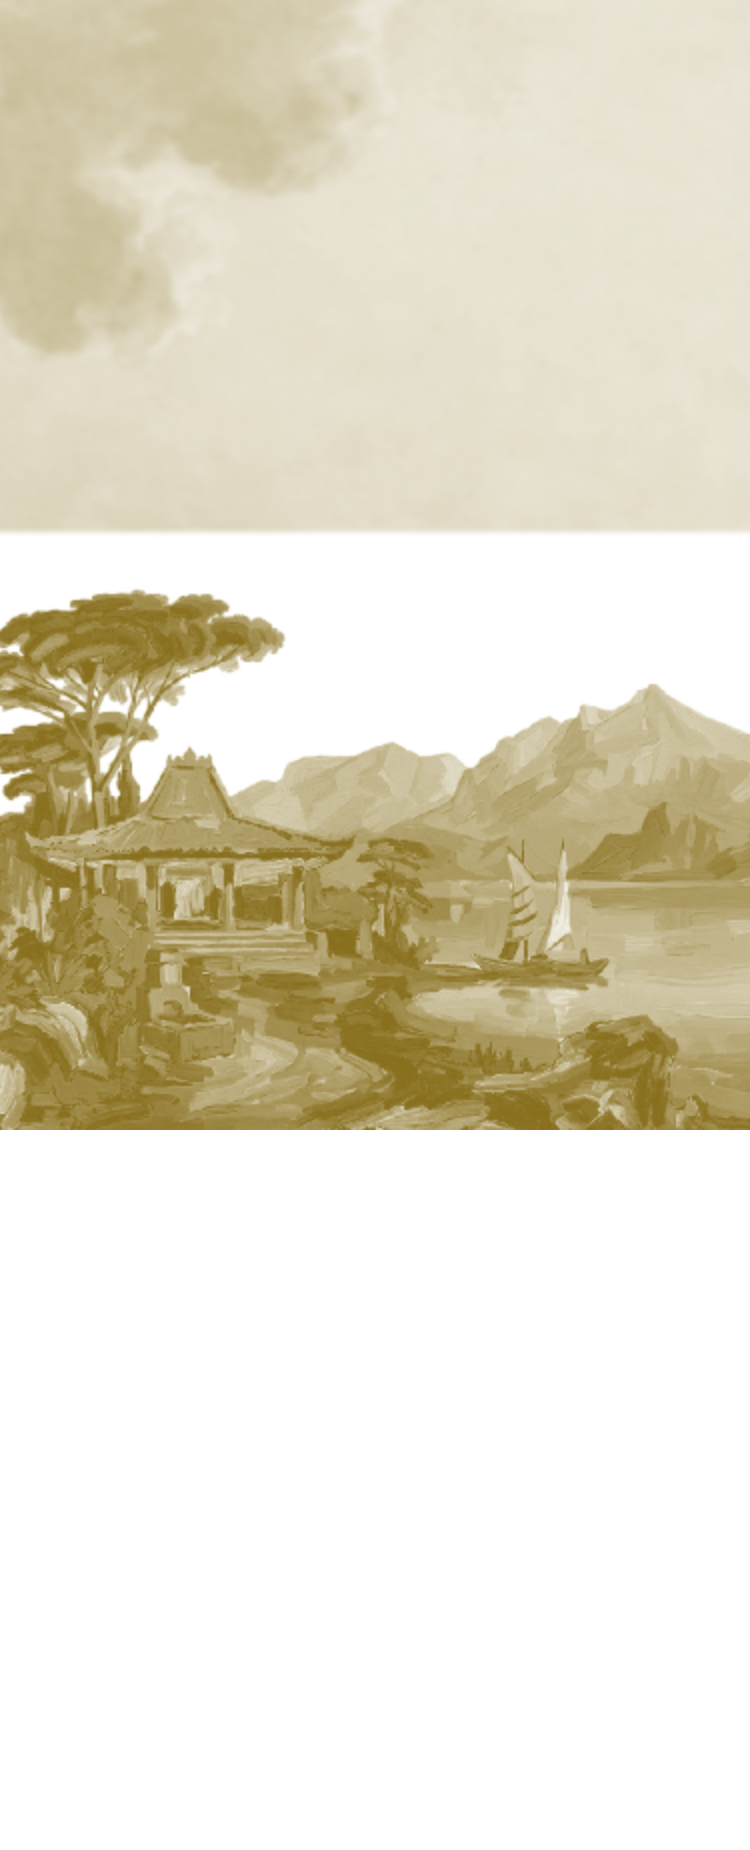
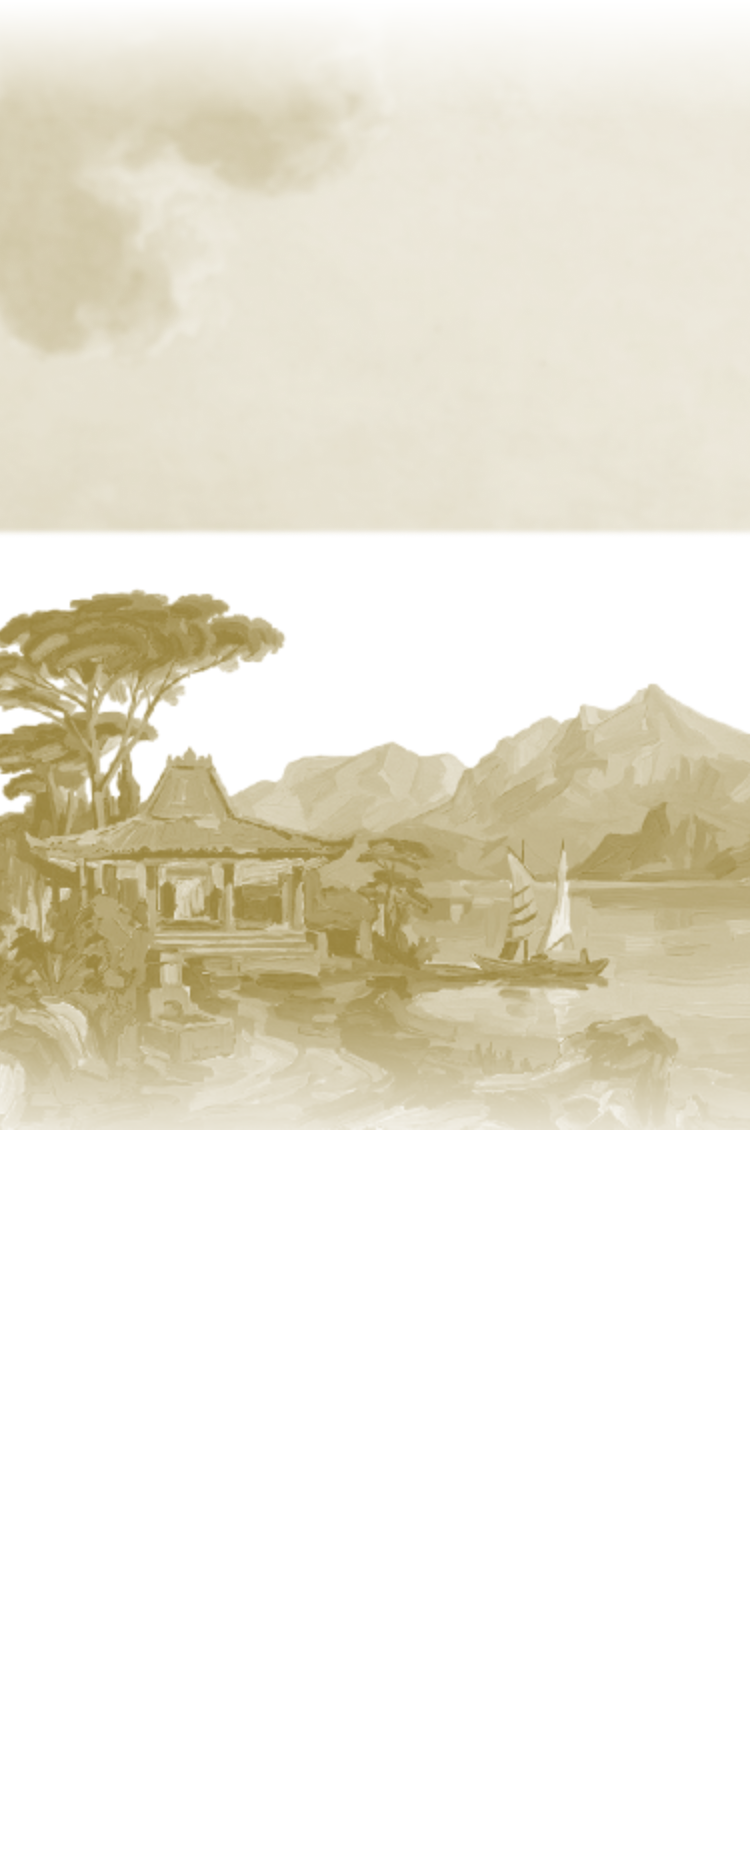
fix: feather bride bg edge; add front floral layer so lap wreath sits over kebaya

Changed region(s): [[0.0, 0.3081, 1.0, 0.6162], [0.0, 0.0, 1.0, 0.0616]]

diff --git a/src/components/invite/BrideSection.vue b/src/components/invite/BrideSection.vue
@@ -2,6 +2,7 @@
 // Per-asset bride section (Allysa). Every element its own layer — nothing baked.
 import bg from "../../assets/invite/bride/parts/bg.png";
 import flor from "../../assets/invite/bride/parts/flor.png";
+import florFront from "../../assets/invite/bride/parts/florFront.png";
 import portrait from "../../assets/invite/bride/parts/portrait.png";
 import amp from "../../assets/invite/bride/parts/amp.png";
 import divider from "../../assets/invite/bride/parts/divider.png";
@@ -15,6 +16,7 @@ const layers = [
   { src: bg, cls: "b-bg" },
   { src: flor, cls: "b-flor" },
   { src: portrait, cls: "b-portrait" },
+  { src: florFront, cls: "b-florFront" },
 ];
 </script>
 
@@ -71,6 +73,7 @@ const layers = [
 .b-bg { z-index: 0; }
 .b-flor { z-index: 1; }
 .b-portrait { z-index: 2; }
+.b-florFront { z-index: 3; }
 
 /* --- ornate "&" ampersand, top-center (the design's calligraphic glyph, no frame) --- */
 .bride__amp {
@@ -131,7 +134,8 @@ const layers = [
 
 /* ===== lebay, varied per-asset entrances, gated on scroll-in ===== */
 .bride.shown .b-bg { animation: bFade 1.7s ease 0.05s both, bDrift 26s ease-in-out 2s infinite alternate; }
-.bride.shown .b-flor { transform-origin: 50% 100%; animation: bBloom 1.8s cubic-bezier(0.16,1,0.3,1) 0.9s both, bSwayA 9s ease-in-out 3.4s infinite alternate; }
+.bride.shown .b-flor,
+.bride.shown .b-florFront { transform-origin: 50% 100%; animation: bBloom 1.8s cubic-bezier(0.16,1,0.3,1) 0.9s both, bSwayA 9s ease-in-out 3.4s infinite alternate; }
 .bride.shown .b-portrait { transform-origin: 50% 100%; animation: bRisePortrait 1.6s cubic-bezier(0.16,1,0.3,1) 0.5s both, bFloat 11s ease-in-out 3s infinite alternate; }
 
 .bride.shown .b-amp { animation: bAmp 1.2s cubic-bezier(0.16,1,0.3,1) 0.3s both; }
